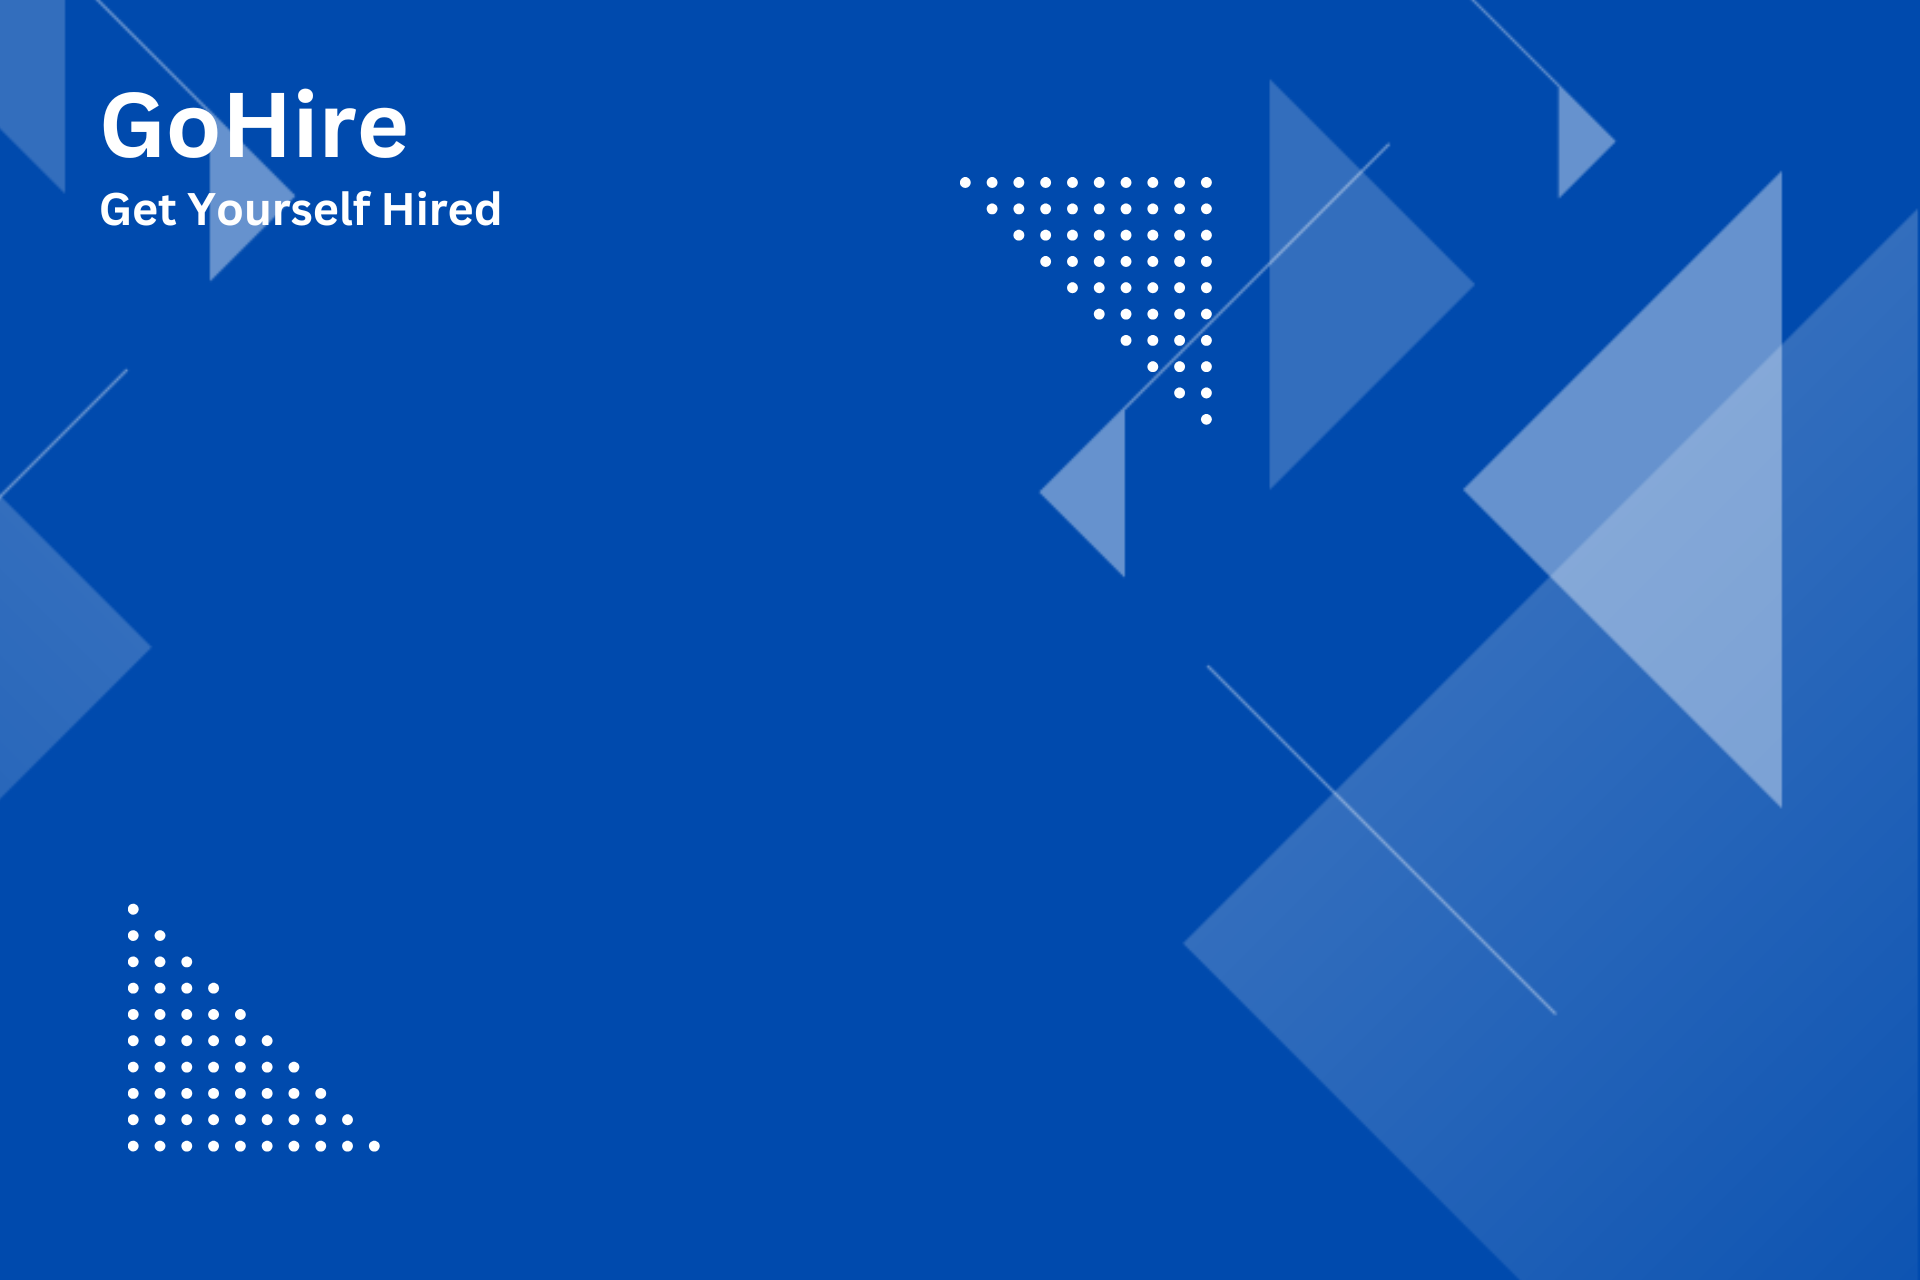
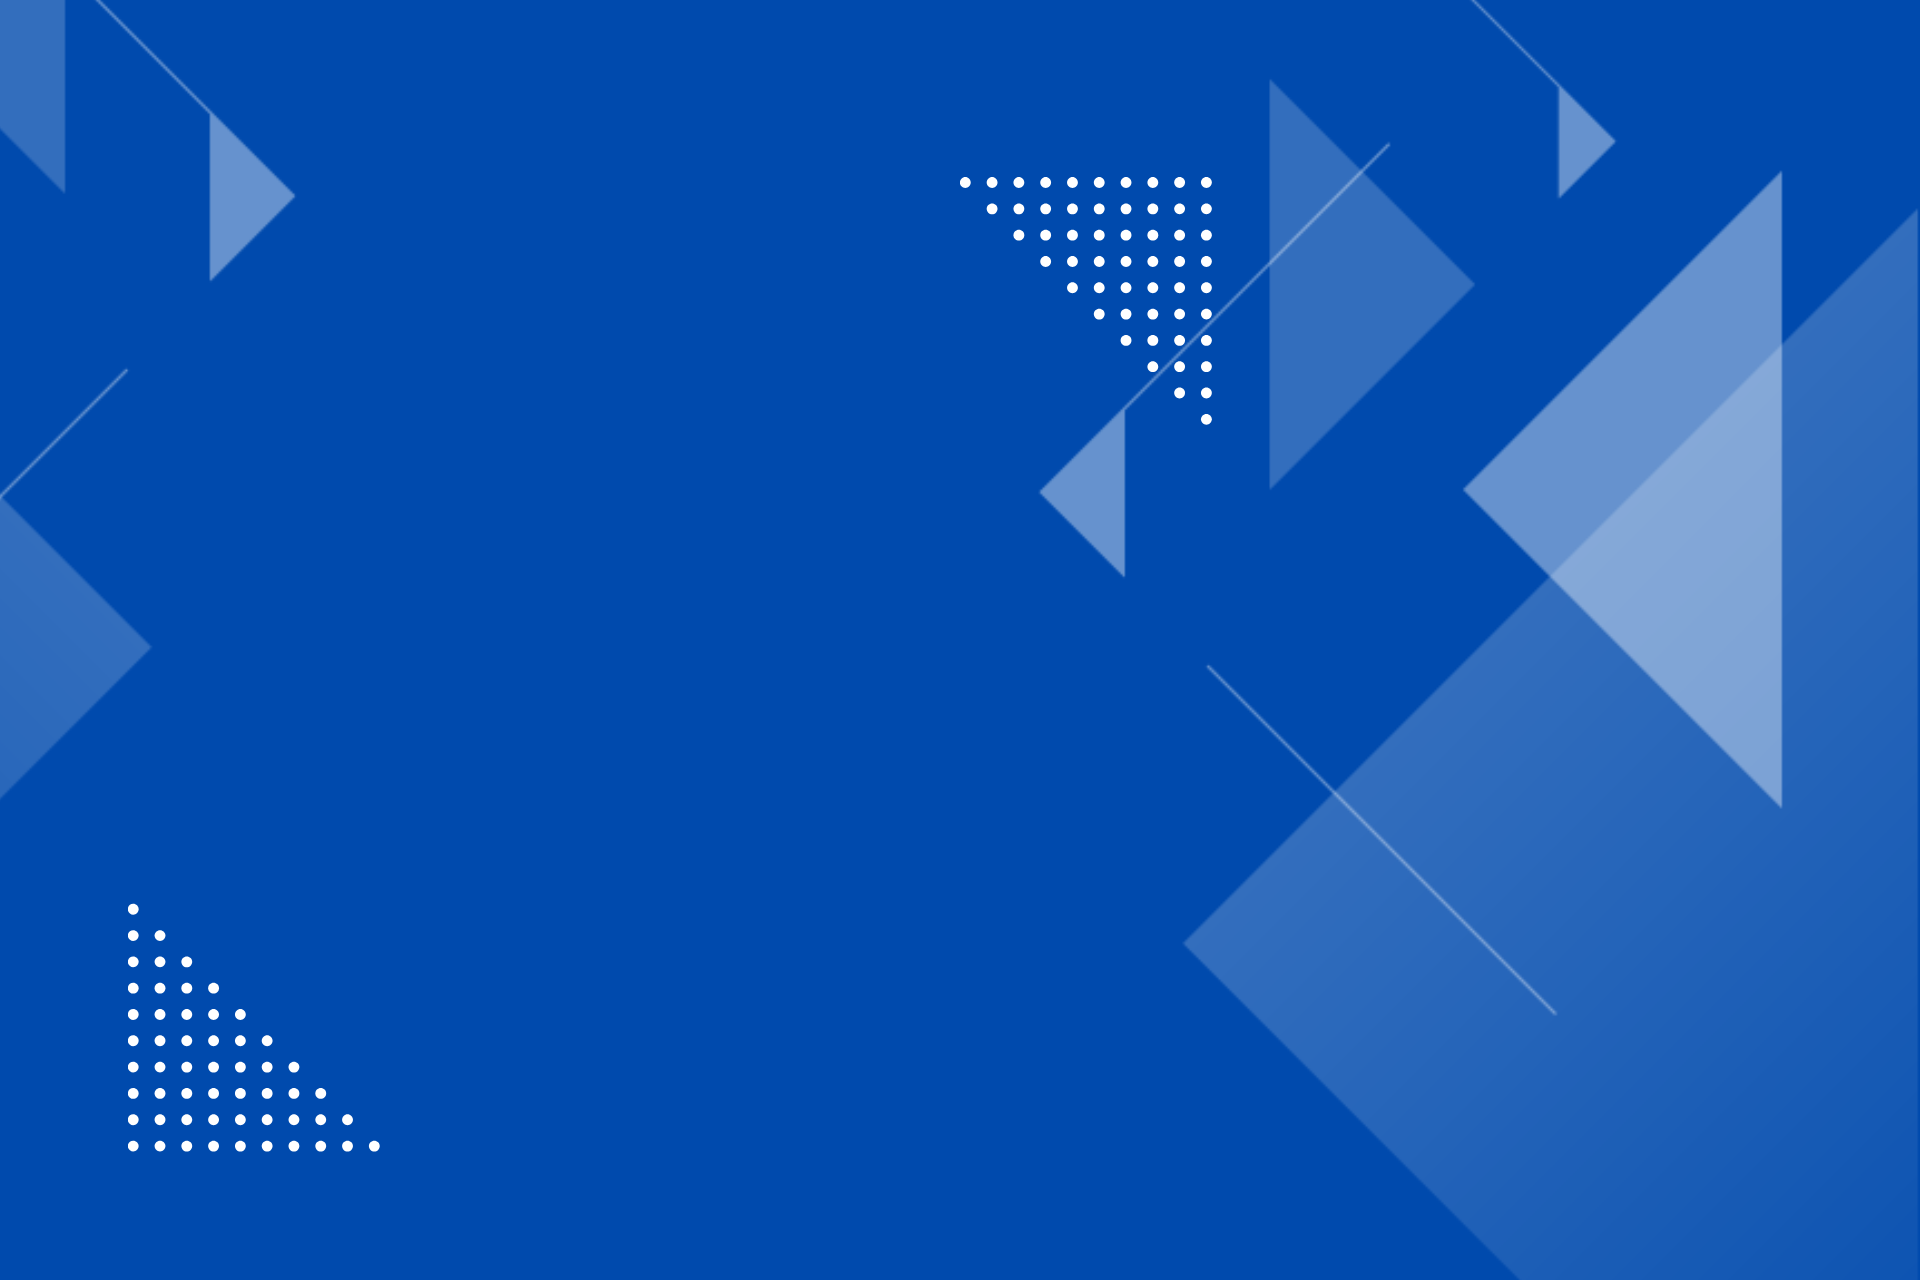
updated login

Changed region(s): [[0.0312, 0.0625, 0.2188, 0.125], [0.0312, 0.1562, 0.2812, 0.1875]]

diff --git a/recruiter-server/app.js b/recruiter-server/app.js
@@ -7,19 +7,18 @@ app.set('view engine', 'ejs');
 app.set('views', path.join(__dirname, 'views'));
 
 app.use(express.static(path.join(__dirname, 'public')));
-
 app.use(express.urlencoded({ extended: true }));
 
-app.use('/auth', authRoutes); 
+app.use('/auth', authRoutes);
 
-// Route to render the login/signup page (landing page)
+// Redirect '/' to '/auth/login'
 app.get('/', (req, res) => {
-  res.render('login', { title: 'Login / Sign Up' });
+  res.redirect('/auth/login',);
 });
 
 // Route to display the home page after login/signup
 app.get('/recruiter/home', (req, res) => {
-  res.render('home', { title: 'Recruiter Dashboard'});
+  res.render('home');
 });
 
 // Route to add company
@@ -32,24 +31,26 @@ app.get('/recruiter/add-job', (req, res) => {
   res.render('add-job', { title: 'Add Job' });
 });
 
+// Route to display companies
 app.get('/recruiter/companies', (req, res) => {
   const companies = [
-      { logo: 'https://logo.clearbit.com/google.com', name: 'Google', date: '2024-06-14' },
-      { logo: 'https://logo.clearbit.com/microsoft.com', name: 'Microsoft', date: '2024-06-14' }
+    { logo: 'https://logo.clearbit.com/google.com', name: 'Google', date: '2024-06-14' },
+    { logo: 'https://logo.clearbit.com/microsoft.com', name: 'Microsoft', date: '2024-06-14' }
   ];
   res.render('companies', { companies });
 });
 
-
-app.get('/recruiter/jobs',(req,res)=>{
-  res.render('jobs',{title: 'Jobs'});
+// Route to display jobs
+app.get('/recruiter/jobs', (req, res) => {
+  res.render('jobs', { title: 'Jobs' });
 });
 
-app.get('/recruiter/profile',(req,res)=>{
+// Route to display profile
+app.get('/recruiter/profile', (req, res) => {
   res.render('profile');
 });
 
-const PORT = 5000;  
+const PORT = 5000;
 app.listen(PORT, () => {
   console.log(`Recruiter server running on http://localhost:${PORT}`);
 });

diff --git a/recruiter-server/public/css/style.css b/recruiter-server/public/css/style.css
@@ -81,7 +81,7 @@ button {
   font-size: 20px;
 }
 
-/* login css */
+/* login css start*/
 .bodywala {
   font-family: Arial, sans-serif;
   display: flex;
@@ -230,5 +230,39 @@ button {
   text-decoration: none;
 }
 
+.login-heading {
+  position: absolute;
+  top: 20px;
+  left: 20px;
+  color: white;
+  text-align: left;
+}
 
-  
+.main-heading {
+  font-size: 54px;
+  font-weight: bold;
+  margin: 0;
+  font-family:'Segoe UI', Tahoma, Geneva, Verdana, sans-serif;
+}
+
+.sub-heading {
+  font-size: 30px;
+  margin: 0;
+  font-family:'Segoe UI', Tahoma, Geneva, Verdana, sans-serif;
+}
+
+@media (max-width: 1260px){
+  .main-heading{
+    font-size: 24px;
+    font-weight: bold;
+    margin: 0;
+    font-family: 'Segoe UI', Tahoma, Geneva, Verdana, sans-serif;
+  }
+  .sub-heading {
+    font-size: 15px;
+    margin: 0;
+    font-family:'Segoe UI', Tahoma, Geneva, Verdana, sans-serif;
+  }
+}
+
+/* login css end*/

diff --git a/recruiter-server/routes/auth.js b/recruiter-server/routes/auth.js
@@ -13,7 +13,7 @@ router.post('/login', (req, res) => {
 
 router.post('/signup', (req, res) => {
   const { name, email, password } = req.body;
-  res.redirect('/auth/login');
+  res.redirect('/auth/login'); 
 });
 
 router.get('/login', (req, res) => {
